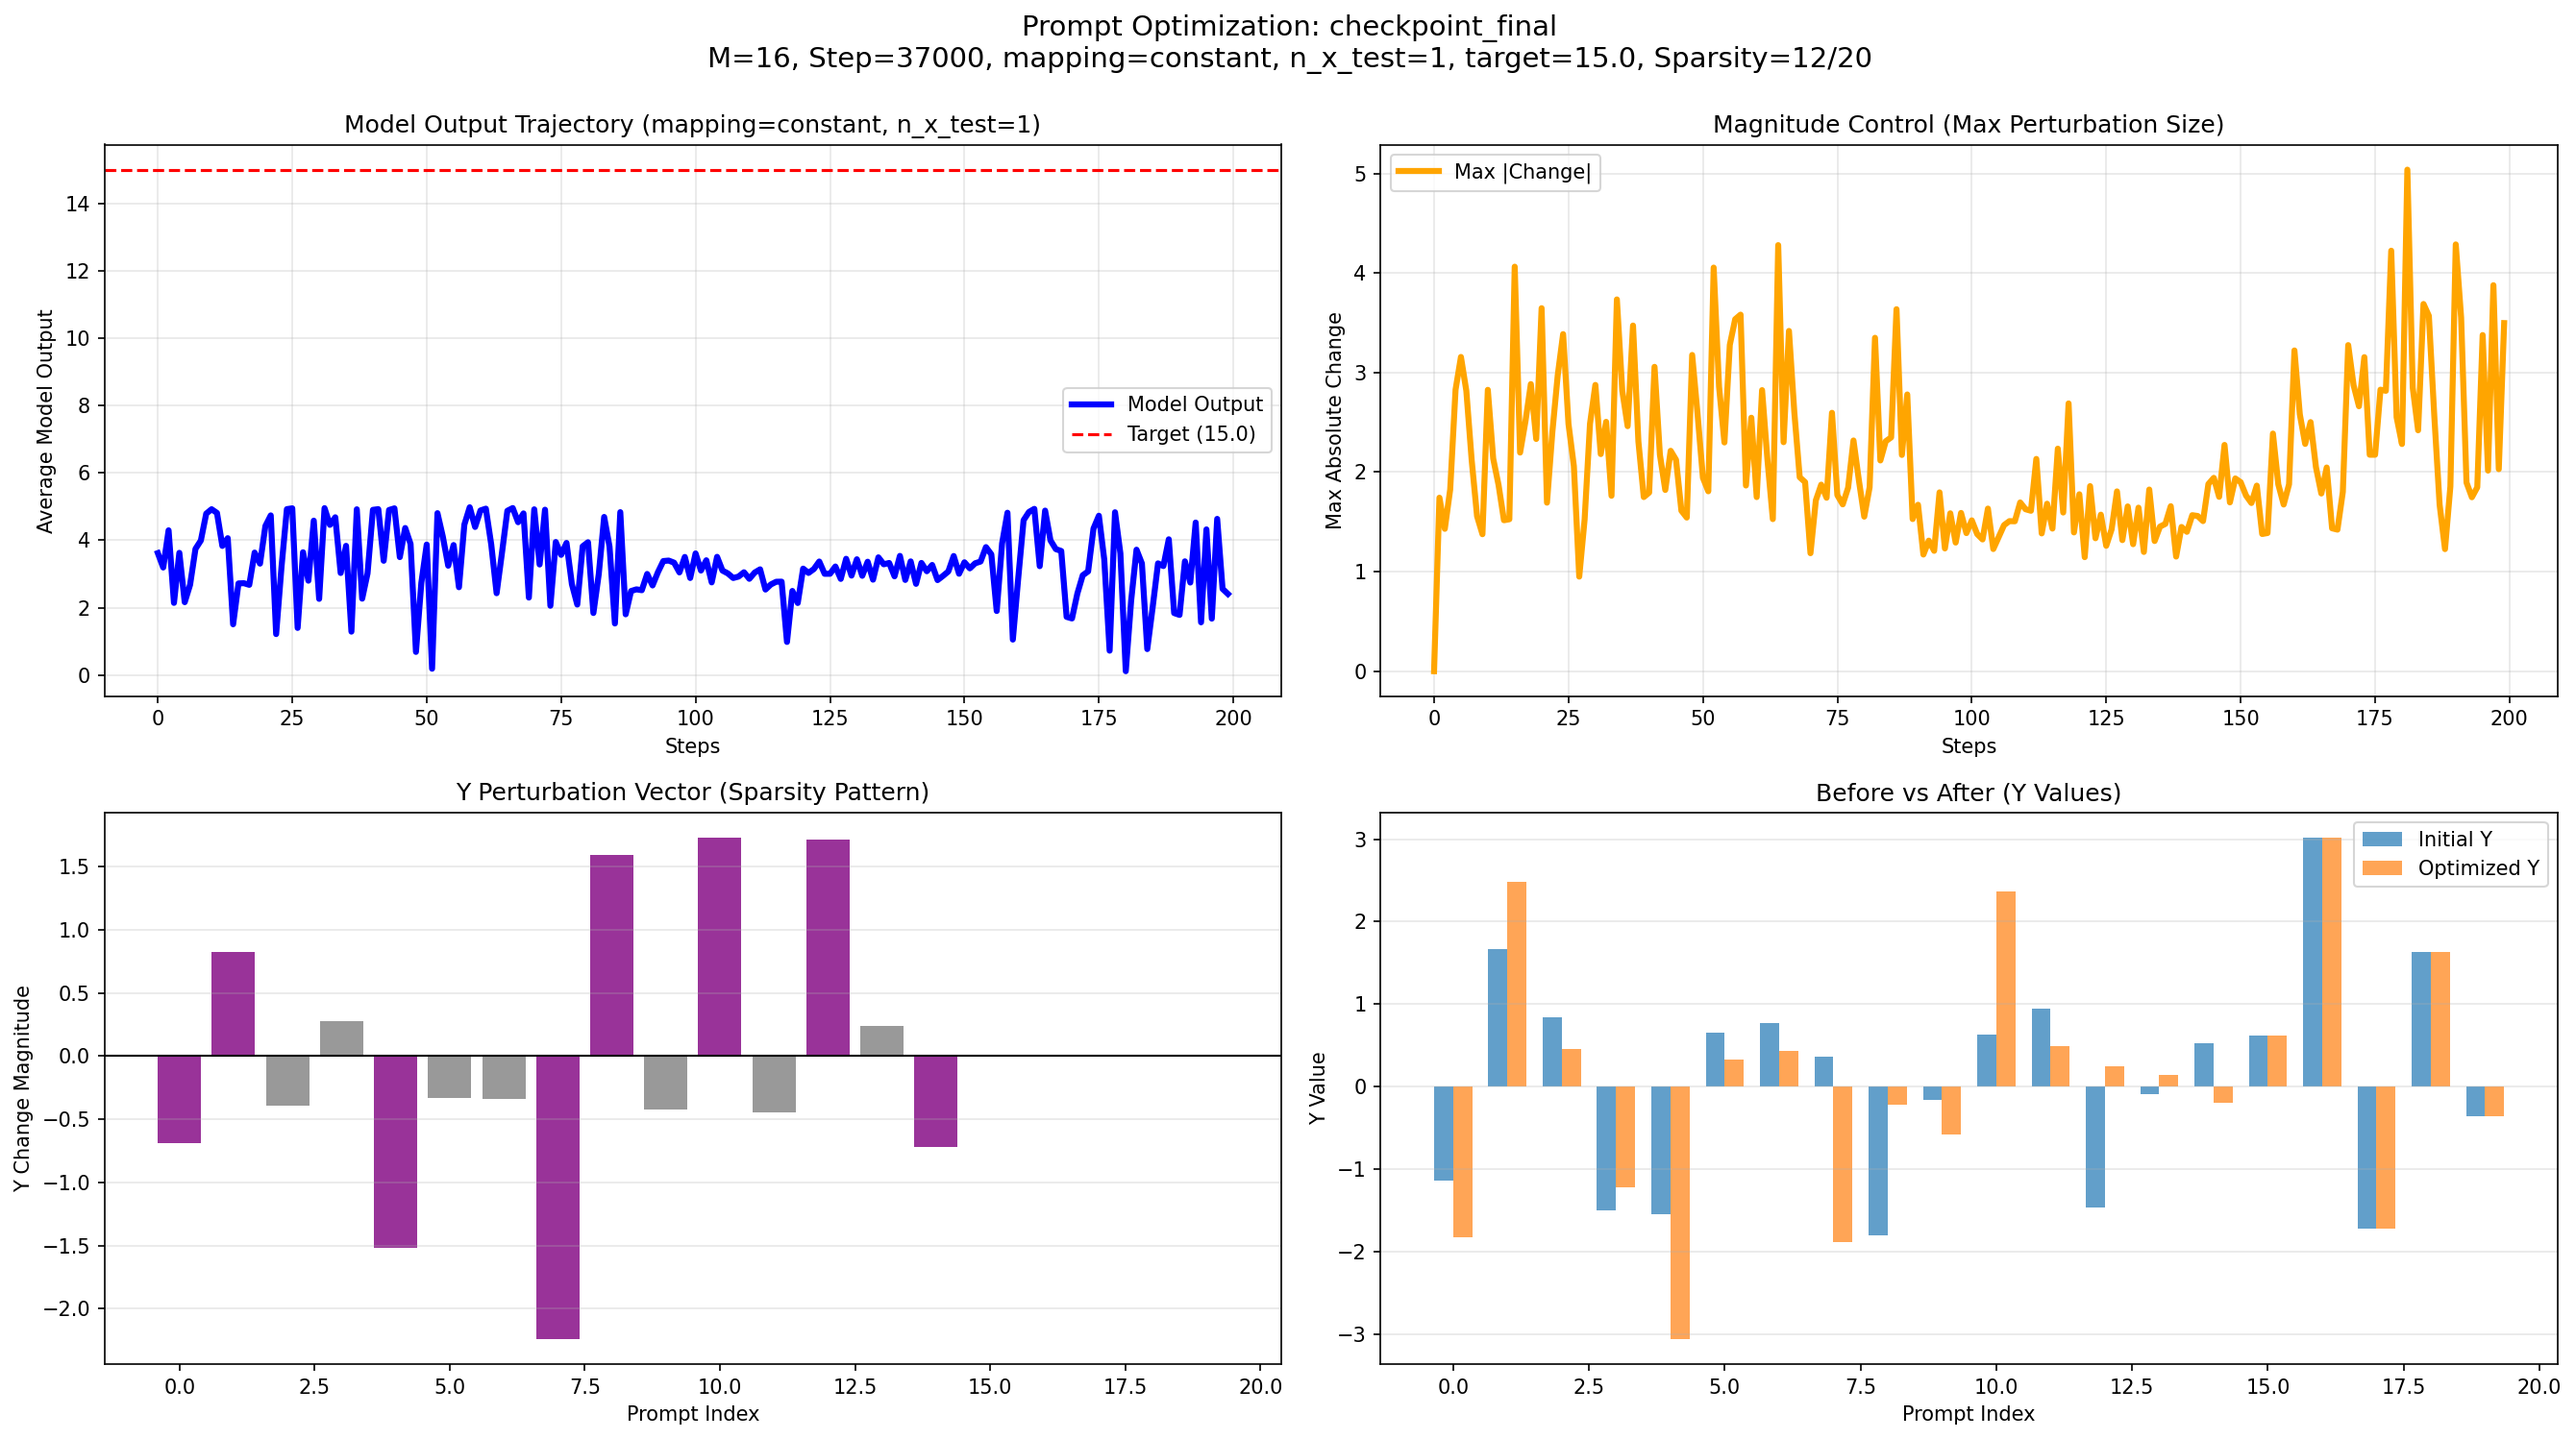
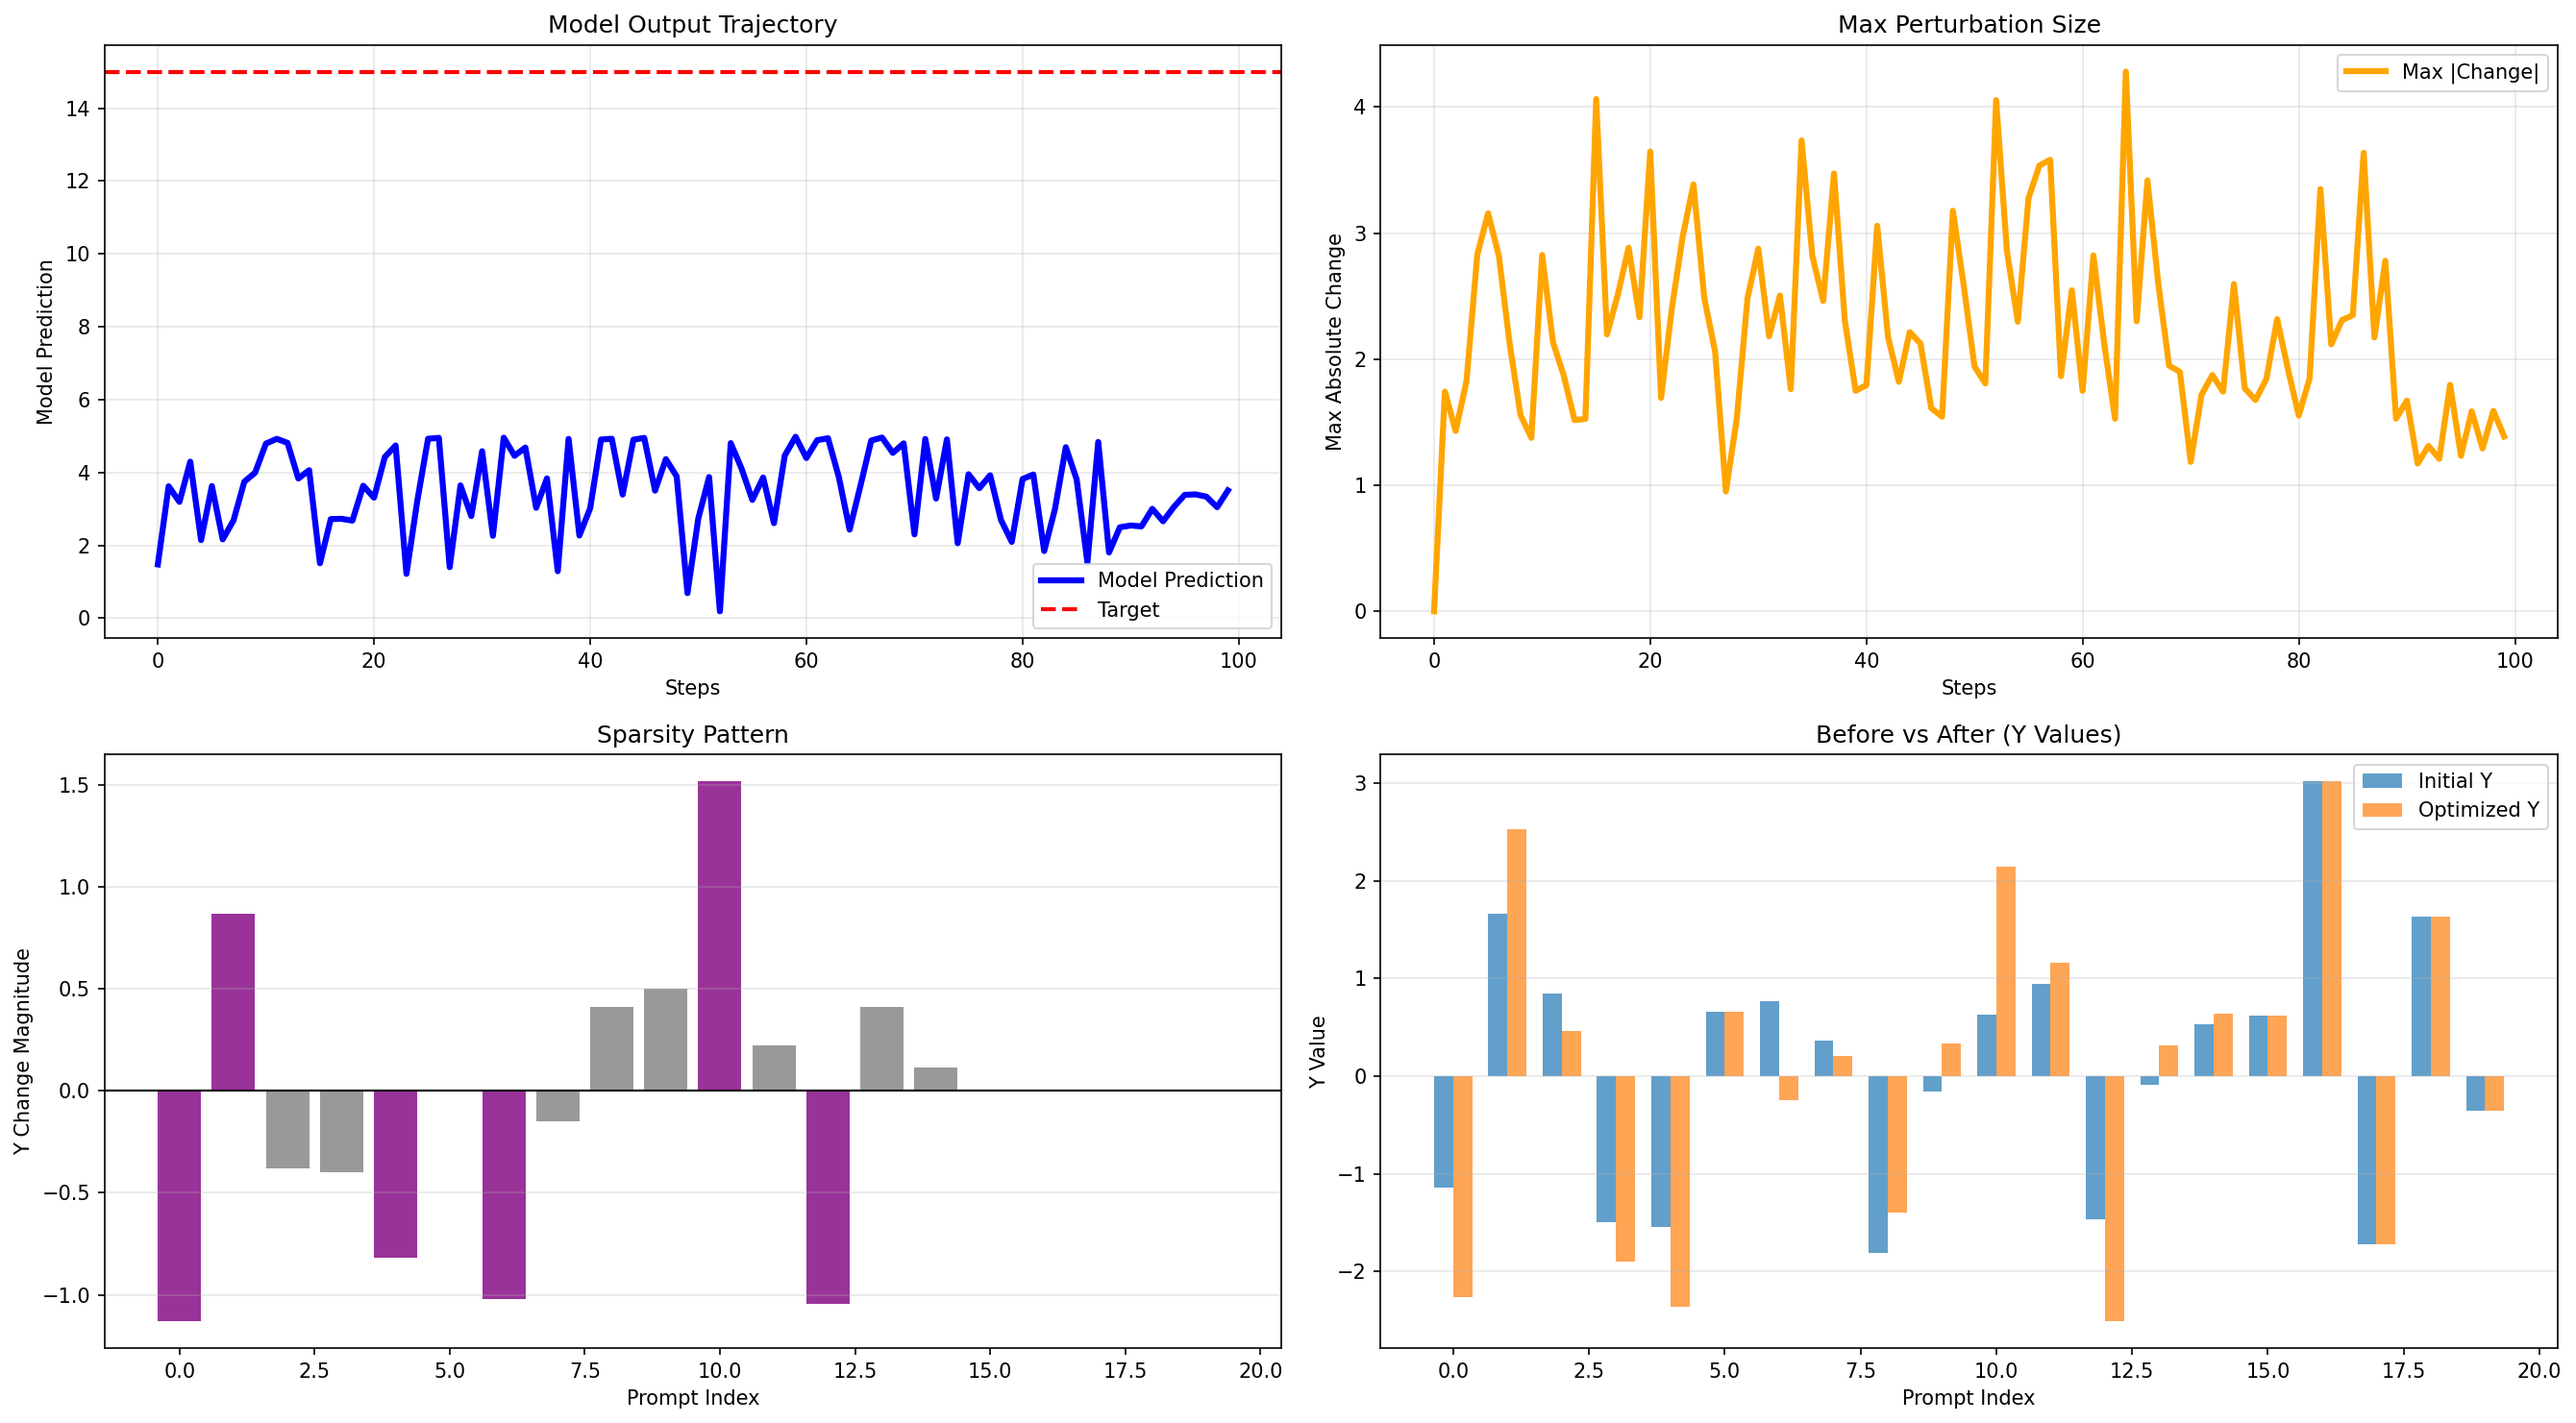
Update optimize_prompt_susceptibility.py: fix constant mapping optimization
- Set n_x_test=1 automatically for constant mapping
- Use fixed x_test (sampled once, reused for all steps) for constant mapping
- Add minimal plot titles (Model Output Trajectory, Max Perturbation Size, Sparsity Pattern, Before vs After)
- Remove overall plot title
- Add horizontal target line for constant mapping plots
- Add debug output for model verification
- Regenerate plots with updated settings

diff --git a/optimize_prompt_susceptibility.py b/optimize_prompt_susceptibility.py
@@ -317,6 +317,10 @@ def optimize_prompt_for_checkpoint(
     """
     torch.manual_seed(seed)
     
+    # For constant mapping, use n_x_test=1 to show actual model prediction
+    if mapping_type == "constant":
+        n_x_test = 1
+    
     # Load checkpoint
     model, _, _, step, cfg, M = load_checkpoint(checkpoint_path, device=device)
     if device is None:
@@ -324,6 +328,10 @@ def optimize_prompt_for_checkpoint(
     
     model.to(device)
     model.eval()  # Set to eval mode, but we'll enable gradients for prompt values
+    
+    # Debug: Print a hash of model parameters to verify different models are loaded
+    first_param_hash = hash(tuple(list(model.parameters())[0].flatten().cpu().detach().numpy().flat[:10]))
+    print(f"[DEBUG] Model parameter hash (first 10 values): {first_param_hash}")
     
     # Freeze model parameters (we only want gradients w.r.t. prompt)
     for param in model.parameters():
@@ -409,6 +417,41 @@ def optimize_prompt_for_checkpoint(
     )
     print(f"[DEBUG] Mapping function frozen - will remain fixed throughout optimization")
     
+    # For constant mapping, sample x_test once and reuse it for all steps
+    # For other mappings, sample fresh x_test at each step
+    if mapping_type == "constant":
+        x_test_fixed = torch.randn(n_x_test, D, device=device)  # (n_x_test, D)
+        print(f"[DEBUG] Sampled x_test once (will be reused for all steps): shape {x_test_fixed.shape}")
+    else:
+        x_test_fixed = None
+        print(f"[DEBUG] Will sample fresh x_test at each step")
+    
+    # Debug: Check initial model prediction before optimization
+    with torch.no_grad():
+        # Create a test sequence with initial context
+        if K_context + 1 > K_expected:
+            K_context_use = K_expected - 1
+            x_test_debug = x_context_initial[:K_context_use]
+            y_test_debug = y_context_initial[:K_context_use]
+        else:
+            K_pad = K_expected - K_context - 1
+            x_test_debug = x_context_initial
+            y_test_debug = y_context_initial
+            if K_pad > 0:
+                x_pad = torch.zeros(K_pad, D, device=device)
+                y_pad = torch.zeros(K_pad, device=device)
+                x_test_debug = torch.cat([x_context_initial, x_pad], dim=0)
+                y_test_debug = torch.cat([y_context_initial, y_pad], dim=0)
+        
+        # Add a dummy query
+        x_query_debug = torch.randn(1, D, device=device)
+        y_query_debug = torch.zeros(1, device=device)
+        x_full_debug = torch.cat([x_test_debug, x_query_debug], dim=0)
+        y_full_debug = torch.cat([y_test_debug, y_query_debug], dim=0)
+        tokens_debug = encode_sequence_tokens(x_full_debug, y_full_debug).unsqueeze(0).to(device)
+        pred_debug = model.predict_y_from_x_tokens(tokens_debug)
+        print(f"[DEBUG] Initial model prediction (before optimization) on test input: {pred_debug[0, -1].item():.6f}")
+    
     # Optimization loop
     for opt_step in range(num_steps):
         if opt_step == 0:
@@ -433,11 +476,18 @@ def optimize_prompt_for_checkpoint(
                 x_context_use = torch.cat([x_context, x_pad], dim=0)
                 y_context_use = torch.cat([y_context, y_pad], dim=0)
         
-        # Sample fresh x_test values at each gradient step
-        x_test_all = torch.randn(n_x_test, D, device=device)  # (n_x_test, D)
+        # Use fixed x_test for constant mapping, sample fresh for other mappings
+        if mapping_type == "constant":
+            x_test_all = x_test_fixed  # Reuse the same x_test
+            if opt_step == 0:
+                print(f"[DEBUG] Step {opt_step}: Using fixed x_test (constant mapping)")
+        else:
+            x_test_all = torch.randn(n_x_test, D, device=device)  # Sample fresh
+            if opt_step == 0:
+                print(f"[DEBUG] Step {opt_step}: Sampling fresh x_test values")
         
         if opt_step == 0:
-            print(f"[DEBUG] Step {opt_step}: Computing losses over {n_x_test} fresh x_test values (batched) using frozen mapping function...")
+            print(f"[DEBUG] Step {opt_step}: Computing losses over {n_x_test} x_test values (batched) using frozen mapping function...")
         
         # Batch process all x_test values in parallel for efficiency
         # Note: mapping_fn is frozen (created once at start), so y_desired is stable
@@ -470,7 +520,9 @@ def optimize_prompt_for_checkpoint(
         y_pred_batch = y_pred_all_batch[:, -1]  # Predictions for query points: (n_x_test,)
         
         if opt_step == 0:
-            print(f"[DEBUG] Step {opt_step}: Batch predictions shape: {y_pred_batch.shape}, first pred: {y_pred_batch[0].item():.4f}")
+            print(f"[DEBUG] Step {opt_step}: Batch predictions shape: {y_pred_batch.shape}")
+            print(f"[DEBUG] Step {opt_step}: First 5 predictions: {y_pred_batch[:5].cpu().tolist()}")
+            print(f"[DEBUG] Step {opt_step}: Mean prediction: {y_pred_batch.mean().item():.6f}, Std: {y_pred_batch.std().item():.6f}")
         
         # Get desired values from mapping function for all x_test
         # Note: mapping_fn returns scalar, so we need to call it for each x_test
@@ -606,19 +658,27 @@ def plot_optimization_results(
     mapping_type = results.get("mapping_type", "constant")
     n_x_test = results.get("n_x_test", 1)
     
-    # Plot 1: Average Loss Trajectory
+    # Plot 1: Model Prediction (for constant mapping) or Average Loss (for other mappings)
     ax = axes[0, 0]
-    ax.plot(loss_traj, linewidth=3, label="Avg Loss", color="blue")
-    ax.set_title(f"Loss Trajectory (mapping={mapping_type}, n_x_test={n_x_test})")
-    ax.set_xlabel("Steps")
-    ax.set_ylabel("Average Loss")
+    if mapping_type == "constant":
+        ax.plot(prediction_traj, linewidth=3, label="Model Prediction", color="blue")
+        if target is not None:
+            ax.axhline(target, color="red", linestyle="--", linewidth=2, label="Target")
+        ax.set_title("Model Output Trajectory")
+        ax.set_xlabel("Steps")
+        ax.set_ylabel("Model Prediction")
+    else:
+        ax.plot(loss_traj, linewidth=3, label="Avg Loss", color="blue")
+        ax.set_title("Loss Trajectory")
+        ax.set_xlabel("Steps")
+        ax.set_ylabel("Average Loss")
     ax.legend()
     ax.grid(True, alpha=0.3)
     
     # Plot 2: Max Perturbation (Magnitude Control)
     ax = axes[0, 1]
     ax.plot(pert_max_traj, linewidth=3, color="orange", label="Max |Change|")
-    ax.set_title("Magnitude Control (Max Perturbation Size)")
+    ax.set_title("Max Perturbation Size")
     ax.set_xlabel("Steps")
     ax.set_ylabel("Max Absolute Change")
     ax.legend()
@@ -636,7 +696,7 @@ def plot_optimization_results(
         color=colors,
         alpha=0.8,
     )
-    ax.set_title("Y Perturbation Vector (Sparsity Pattern)")
+    ax.set_title("Sparsity Pattern")
     ax.set_xlabel("Prompt Index")
     ax.set_ylabel("Y Change Magnitude")
     ax.axhline(0, color="black", linewidth=1)
@@ -662,7 +722,7 @@ def plot_optimization_results(
         
         ax.plot(range(n_prompt), x_pert_magnitude, 'o-', label="X Perturbation (L2 norm)", color="red", linewidth=2, markersize=4)
         ax.plot(range(n_prompt), y_pert_magnitude, 's-', label="Y Perturbation (abs)", color="blue", linewidth=2, markersize=4)
-        ax.set_title("X and Y Perturbation Magnitudes")
+        ax.set_title("Before vs After (Y Values)")
         ax.set_xlabel("Prompt Index")
         ax.set_ylabel("Perturbation Magnitude")
         ax.legend()
@@ -676,21 +736,6 @@ def plot_optimization_results(
         ax.set_ylabel("Y Value")
         ax.legend()
         ax.grid(True, alpha=0.3, axis="y")
-    
-    # Overall title
-    M = results["M"]
-    step = results["step"]
-    mapping_type = results.get("mapping_type", "constant")
-    n_x_test = results.get("n_x_test", 1)
-    title_parts = [f"M={M}, Step={step}", f"mapping={mapping_type}, n_x_test={n_x_test}"]
-    if mapping_type == "constant" and target is not None:
-        title_parts.append(f"target={target}")
-    title_parts.append(f"Sparsity={results['sparsity_count']}/{n_prompt}")
-    fig.suptitle(
-        f"Prompt Optimization: {checkpoint_name}\n" + ", ".join(title_parts),
-        fontsize=14,
-        y=0.995,
-    )
     
     plt.tight_layout()
     plt.savefig(output_path, dpi=150, bbox_inches="tight")
